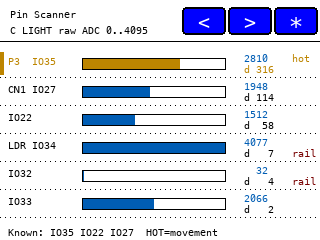
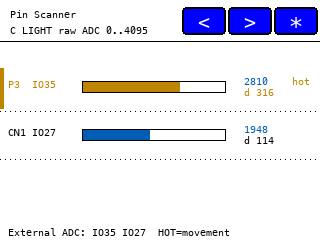
Limit App 4 scanner to safe external pins

diff --git a/tools/render_app4_pin_scanner_mock.py b/tools/render_app4_pin_scanner_mock.py
@@ -86,10 +86,6 @@ PALETTES = {
 PINS = [
     ("P3  IO35", 2810, 316, False),
     ("CN1 IO27", 1948, 114, False),
-    ("IO22", 1512, 58, False),
-    ("LDR IO34", 4077, 7, True),
-    ("IO32", 32, 4, True),
-    ("IO33", 2066, 2, False),
 ]
 
 try:
@@ -128,23 +124,23 @@ def draw_screen(mode_key):
 
     hot_index = 0
     for idx, (label, value, movement, railed) in enumerate(PINS):
-        y = 50 + idx * 28
+        y = 66 + idx * 48
         hot = idx == hot_index
-        dotted_line(draw, y + 27, p)
+        dotted_line(draw, y + 45, p)
         if hot:
-            draw.rectangle((0, y + 2, 3, y + 24), fill=p["hot"])
-        draw.text((8, y + 5), label, font=FONT_1, fill=p["hot"] if hot else p["text"])
-        draw.rectangle((82, y + 8, 225, y + 19), outline=p["grid"])
+            draw.rectangle((0, y + 2, 3, y + 42), fill=p["hot"])
+        draw.text((8, y + 12), label, font=FONT_1, fill=p["hot"] if hot else p["text"])
+        draw.rectangle((82, y + 15, 225, y + 26), outline=p["grid"])
         fill_w = max(0, int((value / 4095) * 144) - 2)
-        draw.rectangle((83, y + 9, 83 + fill_w, y + 18), fill=p["hot"] if hot else p["bar"])
-        draw.text((244, y + 2), f"{value:4d}", font=FONT_1, fill=p["value"])
-        draw.text((244, y + 13), f"d{movement:4d}", font=FONT_1, fill=p["hot"] if hot else p["text"])
+        draw.rectangle((83, y + 16, 83 + fill_w, y + 25), fill=p["hot"] if hot else p["bar"])
+        draw.text((244, y + 9), f"{value:4d}", font=FONT_1, fill=p["value"])
+        draw.text((244, y + 20), f"d{movement:4d}", font=FONT_1, fill=p["hot"] if hot else p["text"])
         if hot:
-            draw.text((292, y + 2), "hot", font=FONT_1, fill=p["hot"])
+            draw.text((292, y + 9), "hot", font=FONT_1, fill=p["hot"])
         if railed:
-            draw.text((292, y + 13), "rail", font=FONT_1, fill=p["rail"])
+            draw.text((292, y + 20), "rail", font=FONT_1, fill=p["rail"])
 
-    draw.text((8, 226), "Known: IO35 IO22 IO27  HOT=movement", font=FONT_1, fill=p["text"])
+    draw.text((8, 226), "External ADC: IO35 IO27  HOT=movement", font=FONT_1, fill=p["text"])
     path = OUT_DIR / f"app4-pin-scanner-{mode_key}.png"
     image.save(path)
     print(path)

diff --git a/tools/check_app_shell.py b/tools/check_app_shell.py
@@ -130,6 +130,7 @@ required_large_controls = {
     "Pin Scanner": "App 4 pin scanner title is missing",
     "PIN_SCANNER_PIN_COUNT": "App 4 pin scanner pin table is missing",
     "ScannerPin scannerPins[]": "App 4 pin scanner data model is missing",
+    "#define PIN_SCANNER_PIN_COUNT 2": "App 4 should only scan connector-safe external analog candidates",
     "HOT_MOVEMENT_MIN": "App 4 pin scanner hot movement threshold is missing",
     "SORT_INTERVAL_MS": "App 4 pin scanner sort interval is missing",
     "SORT_HYSTERESIS": "App 4 pin scanner sort hysteresis is missing",
@@ -201,5 +202,15 @@ if "drawAppNavControls();" not in app4_fn_body:
     raise SystemExit("App 4 pin scanner does not draw persistent nav controls")
 if "displayModeName()" not in app4_fn_body:
     raise SystemExit("App 4 pin scanner does not show the active display mode")
+
+scanner_start = source.index("ScannerPin scannerPins[] = {")
+scanner_end = source.index("};", scanner_start)
+scanner_body = source[scanner_start:scanner_end]
+for unsafe_pin in ['"IO22"', '"LDR IO34"', '"IO32"', '"IO33"', ", 22,", ", 32,", ", 33,"]:
+    if unsafe_pin in scanner_body:
+        raise SystemExit(f"App 4 pin scanner includes unsafe integrated-app scan target: {unsafe_pin}")
+for required_pin in ['"P3  IO35"', '"CN1 IO27"']:
+    if required_pin not in scanner_body:
+        raise SystemExit(f"App 4 pin scanner is missing external connector target: {required_pin}")
 
 print("App shell checks passed")

diff --git a/CHANGELOG.md b/CHANGELOG.md
@@ -1,6 +1,7 @@
 # CYD App Launcher — Student Version — Changelog
 
 ## Unreleased
+- 2026-05-24 App 4 crash fix: narrowed the integrated pin scanner to connector-safe external analog candidates `GPIO35` on `P3` and `GPIO27` on `CN1`; removed `GPIO22` because it is not ADC-capable in the ESP32 analog API, removed `GPIO32`/`GPIO33` because they are used by the touch controller, and removed onboard `GPIO34`/LDR from the shipped-cable scanner target list; firmware version is `0.4.9-safe-pin-scanner`.
 - 2026-05-24 App 4 pin-scanner experiment: integrated the standalone `CYD_Analog_Pin_Scanner` sketch as launcher App 4, scanning `GPIO 35`, `GPIO 22`, `GPIO 27`, `GPIO 34`, `GPIO 32`, and `GPIO 33` with 12-bit ADC reads, movement tracking, rail warnings, and auto-sort by movement; firmware version is `0.4.8-pin-scanner`.
 - 2026-05-24 App 4 visual treatment: added mode-aware `M DARK`, `M LIGHT`, `C DARK`, and `C LIGHT` pin-scanner colors, generated App 4 PNG mockups/contact sheet, and added `tools/update_screenshot_contact_sheet.py` for refreshing the GitHub screenshot folder README.
 - 2026-05-24 app-shell pause documentation: expanded the README into a readable major-change log, added the current branch/head as the good app-shell pause point, included Origin Story render previews, and documented a non-Codex PlatformIO source-flash path for another computer.

diff --git a/README.md b/README.md
@@ -50,12 +50,13 @@ This branch adds the standalone CYD Analog Pin Scanner as App 4 inside the launc
 
 ```text
 Branch: codex/app4-pin-scanner-20260524
-Firmware: 0.4.8-pin-scanner
+Firmware: 0.4.9-safe-pin-scanner
 Source scanner: yury-g/CYD_Analog_Pin_Scanner c203d85
 ```
 
 - Added App 4 `Pin Scanner`, based on the standalone `CYD_Analog_Pin_Scanner` diagnostic sketch.
-- Scans `GPIO 35`, `GPIO 22`, `GPIO 27`, `GPIO 34`, `GPIO 32`, and `GPIO 33` with 12-bit ADC readings, movement tracking, rail warnings, and auto-sort by movement.
+- Scans only connector-safe external analog candidates `GPIO 35` on `P3` and `GPIO 27` on `CN1` with 12-bit ADC readings, movement tracking, rail warnings, and auto-sort by movement.
+- Excludes `GPIO 22` because it is not an ESP32 ADC input, excludes `GPIO 32` and `GPIO 33` because this firmware uses them for the touch controller, and excludes `GPIO 34` because it is the onboard LDR path rather than a shipped-cable sensor connector target.
 - Keeps the Pulse app on 10-bit ADC reads and switches to 12-bit only while App 4 is active.
 - Added App 4 mockups for `M DARK`, `M LIGHT`, `C DARK`, and `C LIGHT`, plus a contact sheet under `docs/screenshots/app4-pin-scanner-render/`.
 
